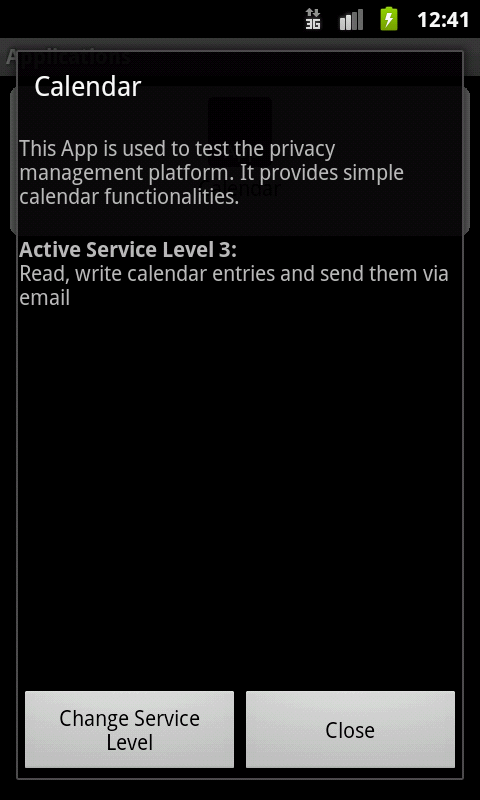
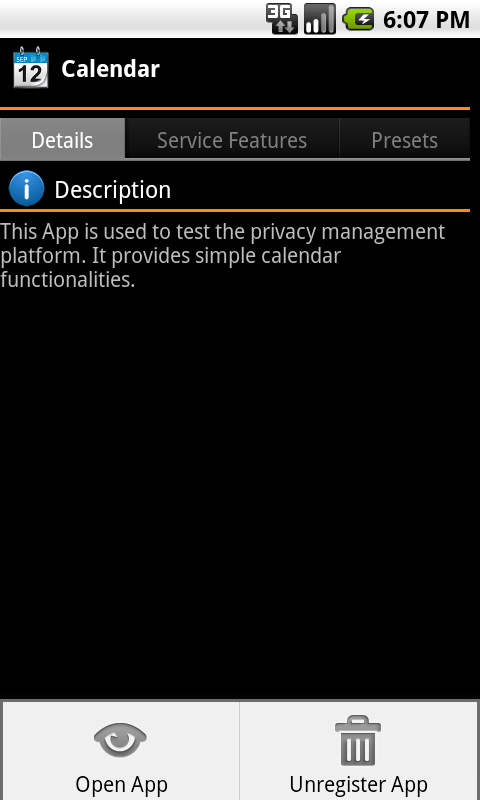
Added a lot more screenhots and edited most of the user-chapter. Refs #334

Changed region(s): [[0.0, 0.0, 1.0, 1.0]]

diff --git a/documentation/manual/manual.html b/documentation/manual/manual.html
@@ -175,8 +175,8 @@
       
       <h2 id="mainmenu">Hauptmenü</h2>
       <a href="images/pmp_main.png" class="fancybox">
-	    <img src="images/pmp_main.png" alt="Hauptmenü" style="width:215px;" class="right">
-	  </a>
+	      <img src="images/pmp_main.png" alt="Hauptmenü" style="width:215px;" class="right">
+	    </a>
       <p>
         Ausgangspunkt der Verwendung der PMP bildet das Hauptmenü, das sich beim 
         Starten der Anwendung öffnet. Dieses bietet Ihnen Zugriff auf alle Funktionen der PMP:
@@ -201,6 +201,9 @@
       
         
       <h2 id="modes">Anwender-Modi</h2>
+      <a href="images/pmp_settings.png" class="fancybox">
+	      <img src="images/pmp_settings.png" alt="Einstellungen" style="width:215px;" class="right">
+	    </a>
       <p>
         Die PMP lässt sich in
         zwei Modi betreiben: Im einfachen Modus (als Simple Mode bezeichnet), stehen
@@ -208,7 +211,7 @@
         benötigt, lässt sich das System in den experten Modus (Expert Mode) schalten.
       </p>
       
-      <h3 id="switchmode">Modus-Wechsel</h3>
+      <h3 id="switchmode" style="clear:none;">Modus-Wechsel</h3>
       <p>
         Der Wechsel zwischen einfachem und erweitertem Modus erfolgt über den
         Einstellungs-Dialog der PMP. Dieser wird über die Schalftläche "Settings" 
@@ -221,7 +224,7 @@
         den Modi hin- und her gewechselt.
       </p> 
       
-      <h3 id="simplemode">Einfacher Modus (Simple Mode)</h3>
+      <h3 id="simplemode" style="clear:none;">Einfacher Modus (Simple Mode)</h3>
       <p>
         Der einfache Modus ist auf Anwender mit geringen Kenntnissen angepasst.
         Daher enthält er nur die wichtigsten Funktionen um den Benutzer nicht zu 
@@ -258,55 +261,82 @@
       </p>
       
       <h3 id="apps_show">Installierte Applikationen anzeigen & Aktvionenmenü</h3>
+      <a href="images/pmp_apps_actionmenu.png" class="fancybox">
+	      <img src="images/pmp_apps_actionmenu.png" alt="Aktionenmenü" style="width:215px;" class="right">
+	    </a>
       <p>
         Über die Schaltfläche "Applications" im Hauptmenü der PMP lassen sich alle
         momentan auf dem Gerät installierten PMP-Applikationen anzeigen.
-        Durch langes Drücken auf eine Applikation öffnet sich das zugehörige 
-        Aktionsmenü. Über die Schaltfläche "View Details" lassen sich weitere
-        Details der Applikation anzeigen.
+        Durch das Antippen einer Anwendung lassen sich zu dieser weitere Informationen
+        anzeigen. Durch langes Drücken auf eine Applikation öffnet sich das zugehörige 
+        Aktionsmenü. Über dieses können weitere Aktionen vorgenommen werden
+        (siehe folgende Kapitel).
       </p>
       
       
       <h3 id="apps_details">Details zur Applikation anzeigen</h3>
+      <a href="images/pmp_apps_details.png" class="fancybox">
+	      <img src="images/pmp_apps_details.png" alt="Details" style="width:215px;" class="right">
+	    </a>
       <p>
         Über den Eintrag "View Dateils" des Aktionenmenüs
-        (siehe <span class="reference" title="#apps_show"></span>) lassen
+        (siehe <span class="reference" title="#apps_show"></span>) oder durch
+        kurzes Antippen einer Applikation in der Applikationenliste lassen
         sich weitere Informationen über die entsprechende Applikation 
-        anzeige. Neben einer Beschreibung der Applikation werden hierbei
-        auch alle Service-Features angezeigt, die für diese Applikation
-        momentan aktiviert sind. Durch Tippen auf ein Service-Feature werden
-        weitere Informationen über dieses angezeigt und die Funktion angeboten, 
-        dieses Service-Feature zu deaktivieren (über die Schaltfläche "Disable SF").
+        anzeige. Der hierdurch geöffnete Dialog unterteilt sich in drei
+        Bereiche, die über die Reiter zugänglich sind
+        <ul>
+          <li>Unter "Description" werden detailierte Informatioen über die
+            betreffende Anwendung angezeigt</li>
+          <li>Unter "Service Features" werden alle von der Applikation angebotene
+            Service Features angezeigt und das Ändern dieser ermöglicht
+            (siehe <span class="reference" title="#apps_sl"></span>)</li>
+          <li>Unter "Presets" werden alle der Applikation zugewiesene Presets angezeigt.
+            Zudem ist es dort möglich, weitere Presets zu erstellen oder
+            bestehende zu ändern(siehe <span class="reference" title="#presets"></span>)</li> 
+        </ul>
       </p>
+      <p>
+        Über das dem Reiter "Details" zugeordnete Menü (Gerätetaste "Menü") kann
+        die Applikation direkt gestartet bzw. geöffnet oder aus der PMP entfernt
+        werden siehe <span class="reference" title="#apps_uninst"></span>).
+      </>
       
       <h3 id="apps_uninst">Applikationen deinstallieren</h3>
       <p>
         Das Entfernen der Applikation aus der PMP erfolgt über den Eintrag
         "Remove App" des Aktionsmenüs
-        (siehe <span class="reference" title="#apps_show"></span>), wodurch
-        die Applikation  aus der PMP entfernt wird.
-        <!--
-        Da PMP-Applikationen in Bezug auf die Installation gegenüber anderen
-        Applikationen keine Sonderstellung einnehmen, werde sie auch auf gleicher
-        Weiße deinstalliert.
-        -->
+        (siehe <span class="reference" title="#apps_show"></span>) oder durch den
+        Menü-Eintrag "Unregister App"
+        (siehe <span class="reference" title="#apps_details"></span>), wodurch
+        die Applikation  aus der PMP entfernt wird. Durch erneutes Starten
+        der Applikation über Die Applikationenauswahl von Android lässt sich
+        Applikation wieder in der PMP registieren.
+      </p>
+      <p>
+        Die eingentliche Deinstallation der PMP-Applikationen, d. h. das endgültige
+        Entfernen der Applikation vom Gerät, erfolgt wie bei gewöhnlichen Applikationen.
       </p>
       
       <h3 id="apps_sl">Service-Feature anzeigen & einstellen</h3>
-	  <a href="images/app_sl.png" class="fancybox">
-        <img src="images/app_sl.png" alt="Angebotene Service-Levels" style="width:215px;" class="right">
-	  </a>
+	    <a href="images/pmp_apps_sf.png" class="fancybox">
+        <img src="images/pmp_apps_sf.png" alt="Angebotene Service-Features" style="width:215px;" class="right">
+	    </a>
       <p>
         <b>Einfacher-Modus:</b> Service-Levels lassen sich nur ändern, wenn der Experten-Modus
         deaktiviert ist.
       </p>
       <p>
         Alle Service-Features, die von einer Applikation angeboten werden, lassen
-        sich über die Schaltfläche "Change Service-Features" im Aktionenmenü
-        (siehe <span class="reference" title="#apps_show"></span>) auflisten.
-        Über diesen Dialog ist das aktivieren bzw. deaktivieren bestimmer
-        Service-Features möglich.
+        sich durch Antippen der entsprechenden Applikation und Auswahl des Reiters
+        "Service Features" anzeigen. Service-Features, die gegenwertig aktiviert 
+        sind, werden grün unterlegt. Durch Antippen eines Service-Features, werden
+        weitere Informationen sowei die benötigten Ressourcen angezeigt.
+        Sind alle benötigten Ressourcen installiert, kann das Service-Features
+        nun über die Schaltfläche "Enable" aktiviert werden bzw. wenn es bereits
+        aktiviert ist, über die Schaltfläche "Disable" deaktiviert werden.
       </p>
+      <!--
       <p>
         Die Darstellung dieses Dialogs unterscheidet sich abhängig davon, wie das
         Gerät gehalten wird: 
@@ -341,6 +371,7 @@
         Gerät (noch) nicht installiert sind. Die zu diesen Service-Features gehörenden
         Einträge werden ausgegraut angezeigt und können somit nicht ausgewählt werden.
       </p>    
+      -->
       <p>
         Um deaktivierte Service-Features verwenden zu können, müssen die von diesen
         benötigten Ressourcengruppen installiert sein (siehe 
@@ -348,9 +379,13 @@
         Ressourcengruppen installiert, kann der Service-Feature-Dialog erneut geöffnet
         und ein nun neu verfügbares Service-Feature ausgewählt werden.
       </p>
+      <div class="clear"></div>
+	    <a href="images/pmp_apps_sf_details.png" class="fancybox">
+        <img src="images/pmp_apps_sf_details.png" alt="Details zu einem Service-Level" style="width:215px;" class="right">
+      </a>
       <p>
         Neben dem Setzen der Service-Feature durch das manuelle Auswählen 
-        der Applikation, lässen sich die Service-Features auch auf folge Arten einstellen:
+        der Applikation, lässen sich die Service-Features auch auf folgende Arten einstellen:
         <ul>
           <li>Beim ersten Starten der Applikation, wobei automatisch der obige Dialog geöffnet wird</li>
           <li>Beim Aufrufen einer Funktion innerhalb der Applikation, die ein
@@ -360,11 +395,7 @@
             "Change" lässt sich dann über den obigen Dialog das Service-Feature ändern</li>
         </ul>
       </p>  
-      <div class="clear"></div>
-	  <a href="images/app_sl_details.png" class="fancybox">
-        <img src="images/app_sl_details.png" alt="Details zu einem Service-Level" style="width:215px;" class="right">
-      </a>
-      <div class="clear"></div>
+      
       
       <h2 id="presets">Presets</h2>
       <p>
@@ -373,21 +404,31 @@
       </p>
       
       <h3 id="presets_show">Prests anzeigen, löschen & Aktionsmenü</h3>
+      <a href="images/pmp_presets.png" class="fancybox">
+        <img src="images/pmp_presets.png" alt="Liste der Presets" style="width:215px;" class="right">
+      </a>
       <p>
         Über die "Presets"-Schalftläche im Hauptmenü werden alle gegenwärtig
-        erstellten Presets angezeigt. In der Aufliestung der Presets wird 
-        herbei neben dem Namen des Presets auch die zugehörige Applikation
-        (im rechten Bereich) sowie die Beschreibung des Presets angezeigt.
-        Durch Tippen auf ein Preset werden Details über dieses angezeigt.
-        Über ein langes Drücken auf ein Preset öffnet sich das zugehörige
-        Aktionenmenü, über welches das Preset geändert oder gelöscht werden kann.
+        erstellten Presets angezeigt. Durch ein langes Drücken auf ein
+        Preset öffnet sich das zugehörige Aktionsmenü. Über dieses kann
+        der Name und die Beschreibung des Presets geändert, oder das Preset
+        gelöscht werden. Durch kurzes Tippen auf ein Preset werden alle Details
+        zu diesem angezeigt. Diese beinhalten die dem Preset zugewiesenen
+        Applikationen (unter dem Reiter "Assigned Apps") sowie die zugewiesenen 
+        Privacy Settings (unter dem Reiter "Assigned Privacy Settings").
+        Die Privacy Settings werden hierbei nach ihrer zugehörigen Ressource
+        gruppiert. Um die Privacy-Settings einer Ressource anzuzeigen, muss auf
+        die entsprechende Ressource getippt werden.
       </p>   
                                                 
       <h3 id="presets_create">Prest hinzufügen</h3>
+      <a href="images/pmp_presets_add.png" class="fancybox">
+        <img src="images/pmp_presets_add.png" alt="Preset hinzufügen" style="width:215px;" class="right">
+      </a>
       <p>
-        Im Preset-Menü (siehe <span class="reference" title="#presets_show"></span>)
-        wird durch Tippen auf das "+"-Icon im oberen rechten Bereich ein neues
-        Preset angelegt. Anschließend öffnet sich ein Dailog, in dem der Name und
+        Das der Preset-Liste zugeordnete Menü (Geräte-Taste "Menü") ermöglicht mit
+        "add Preset" das hinzufügen bzw. erstellen weiterer Presets.
+        Anschließend öffnet sich ein Dailog, in dem der Name und
         die Beschreibung des neuen Prests festgelegt werden können. Nach
         dem Bestätigen öffnet sich automatisch der unter 
         <span class="reference" title="#presets_edit"></span> genannte Dialog,
@@ -395,45 +436,63 @@
       </p>
       
       <h3 id="presets_edit">Prest ändern</h3>
+      <a href="images/pmp_presets_apps.png" class="fancybox">
+        <img src="images/pmp_presets_apps.png" alt="Preset Applikationen" style="width:215px;" class="right">
+      </a>
       <p>
-        Über den Eintrag "Cange Preset" im Aktionsmenü lässt sich das entsprechende
-        Preset über den Details-Dialog editieren. In diesem Dialog werden alle 
-        diesem Preset zugewiesenen Applikationen und Privacy Settings angezeigt.
-        Hierzu befindet sich deben dem Abschnitt "Assigned Apps" bzw. 
-        "Assigned Privacy Settings" ein "+"-Icon, über das die Liste der 
-        Applikationen bzw. Privacy Settings aus- oder eingeklapp werden kann.
-        Durch Tippen auf die im oberen Bereich angezeigten Namen und die Beschreibung,
-        lassen sich diese ändern. Dies ist jedoch nicht möglich, wenn es sich um 
-        ein vordefiniertes Preset handelt.
-        
+        Im Details-Dialog des entsprechendes Presets (durch kurzes Antippen des
+        gewünschten Presets in der Preset-Liste) können innerhalb des Reiters 
+        "Assigned Apps" weitere Applikationen dem Preset hinzugefügt werden.
+        Hierzu wird das Menü (Geräte-Taste "Menü") geöffnet und die Schaltfläche
+        "Assign App" angetippt. In der sich darauf öffnenden Applikationen-Liste
+        werden die gewünschten Applikation durch Antippen selektiert, wobei gegenwärtig
+        selektierte Applikationen grün hinterlegt werden. Über "Confirm" werden die
+        selektierten Applikation schließlich dem Preset hinzugefügt.
       </p>
+      <p> 
+        Sollen weitere Privacy-Settings hinzugefügt werden, so muss zunächst in den
+        Reiter "Assigned Privacy Settings" gewechselt werden. Durch Aufrufen des
+        Menüs (Geräte-Taste "Menü") und Auswahl der Schaltfläche "Assign Privacy Setting"
+        werden alle momentan installierte Ressourcen angezeigt. Die zu einer Ressource
+        gehörenden Privacy-Settings werden angezeigt, indem die entsprechende
+        Ressource durch Antippen "aufgeklappt" wird. Durch Antippen der hierduch 
+        angezeigten Privacy-Settings werden diese dem Preset hinzugefügt.
+      </p>
+      <div class="clear"></div>
+      <a href="images/pmp_presets_ps_add.png" class="fancybox">
+        <img src="images/pmp_presets_ps_add.png" alt="Privacy Setting hinzufügen" style="width:215px;" class="right">
+      </a>
       <p>
         <b>Details zur Applikation anzeigen:</b>
         Durch Tippen auf eine Applikation und anschließendes Tippen auf
-        "View App Details" im sich öffnenden Aktionsmenü lassen sich weitere
+        "Show Details" im sich öffnenden Aktionsmenü lassen sich weitere
         Details zur entsrechenden Applikation anzeigen
         (siehe <span class="reference" title="#apps_details"></span>).
       </p>
       <p>
         <b>Applikation aus Preset entfernen:</b>
         Durch Tippen auf eine Applikation und anschließendes Tippen auf
-        "Remove App" im sich öffnenden Aktionsmenü wird die gewählte Applikation aus
+        "Remove" im sich öffnenden Aktionsmenü wird die gewählte Applikation aus
         Preset entfernt.
+      </p>   
+      <p>
+        <b>Privacy-Setting Details:</b>
+        Durch Tippen auf ein Privacy-Setting und anschließendes Tippen auf
+        "Show Details" im sich öffnenden Aktionsmenü lässt sich das
+        entsprechende Privacy-Setting verändern (z. B. aktivieren/deaktivieren).
       </p>
       <p>
         <b>Privacy-Setting ändern:</b>
         Durch Tippen auf ein Privacy-Setting und anschließendes Tippen auf
-        "Edit Privacy Setting" im sich öffnenden Aktionsmenü lässt sich das
+        "Change value" im sich öffnenden Aktionsmenü lässt sich das
         entsprechende Privacy-Setting verändern (z. B. aktivieren/deaktivieren).
       </p>
       <p>
         <b>Privacy-Setting aus Preset entfernen:</b>
         Durch Tippen auf ein Privacy-Setting und anschließendes Tippen auf
-        "Remove Privacy Setting" wird das gewählte Privacy-Settings aus dem Preset
+        "Remove" wird das gewählte Privacy-Settings aus dem Preset
         entfernt.
       </p>
-      
-      <!-- TODO: PS und APP hinzufügen -->
       
       <h2 id="res">Ressourcen</h2>
       <h3 id="res_inst">Ressourcen installieren</h3>
